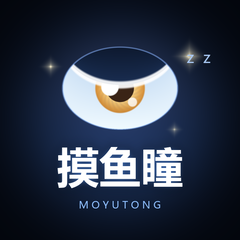
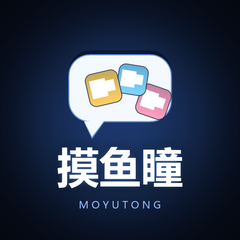
style(群头像): 重做为「聊天气泡 + 三张表情包卡片」，无脸无眼、直指产品本体（自动回复 + 自主发表情包）

diff --git a/docs/群资料.md b/docs/群资料.md
@@ -94,6 +94,11 @@ Q：支持 Mac/Linux 吗？→ 目前只提供 Windows 安装包。
 | `site/assets/moyutong-avatar-120.png` | 列表小图标 |
 | `site/assets/moyutong-brand-640.png` | 带副标题的品牌版，官网 / README 用 |
 
-设计（v2）：**半眯着打瞌睡的眼睛 + Zzz**——上眼睑压下四成，配 `z z`，直指「摸鱼」的本意；巩膜用明亮白蓝而非黑色、虹膜换暖琥珀加大高光，底色是柔和径向渐变（无网格、无雷达环）。整体是友好的动漫眼，没有「被什么东西盯着」的那种渗人感。
+设计（v4）：**一个 QQ 聊天气泡，里面装着三张表情包小卡片**——直接对应软件本体：接上 QQ 自动回消息（气泡）+ AI 自主发表情包（三连打包成一条消息发出）。纯几何剪影，**无眼睛、无面孔**，黄/蓝/粉三色区分三连，深蓝柔和渐变底。
 
-> v1 曾用「发光虹膜 + 雷达环 + 黑眼白」，实测观感偏恐怖谷，已废弃。生成脚本见 `09-工具\头像生成\`。
+> 设计走过三轮弯路，均已废弃：
+> - v1「发光虹膜 + 雷达环 + 黑眼白」→ 恐怖谷，像被监控设备盯着
+> - v2「半眯困眼 + Zzz」→ 不恐怖了，但仍是眼睛，且偏离产品
+> - v3「打瞌睡的小鱼」→ 解释了"摸鱼"二字，但跟软件没关系
+>
+> v4 回到产品本身。生成脚本见 `09-工具\头像生成\`（v4）。
